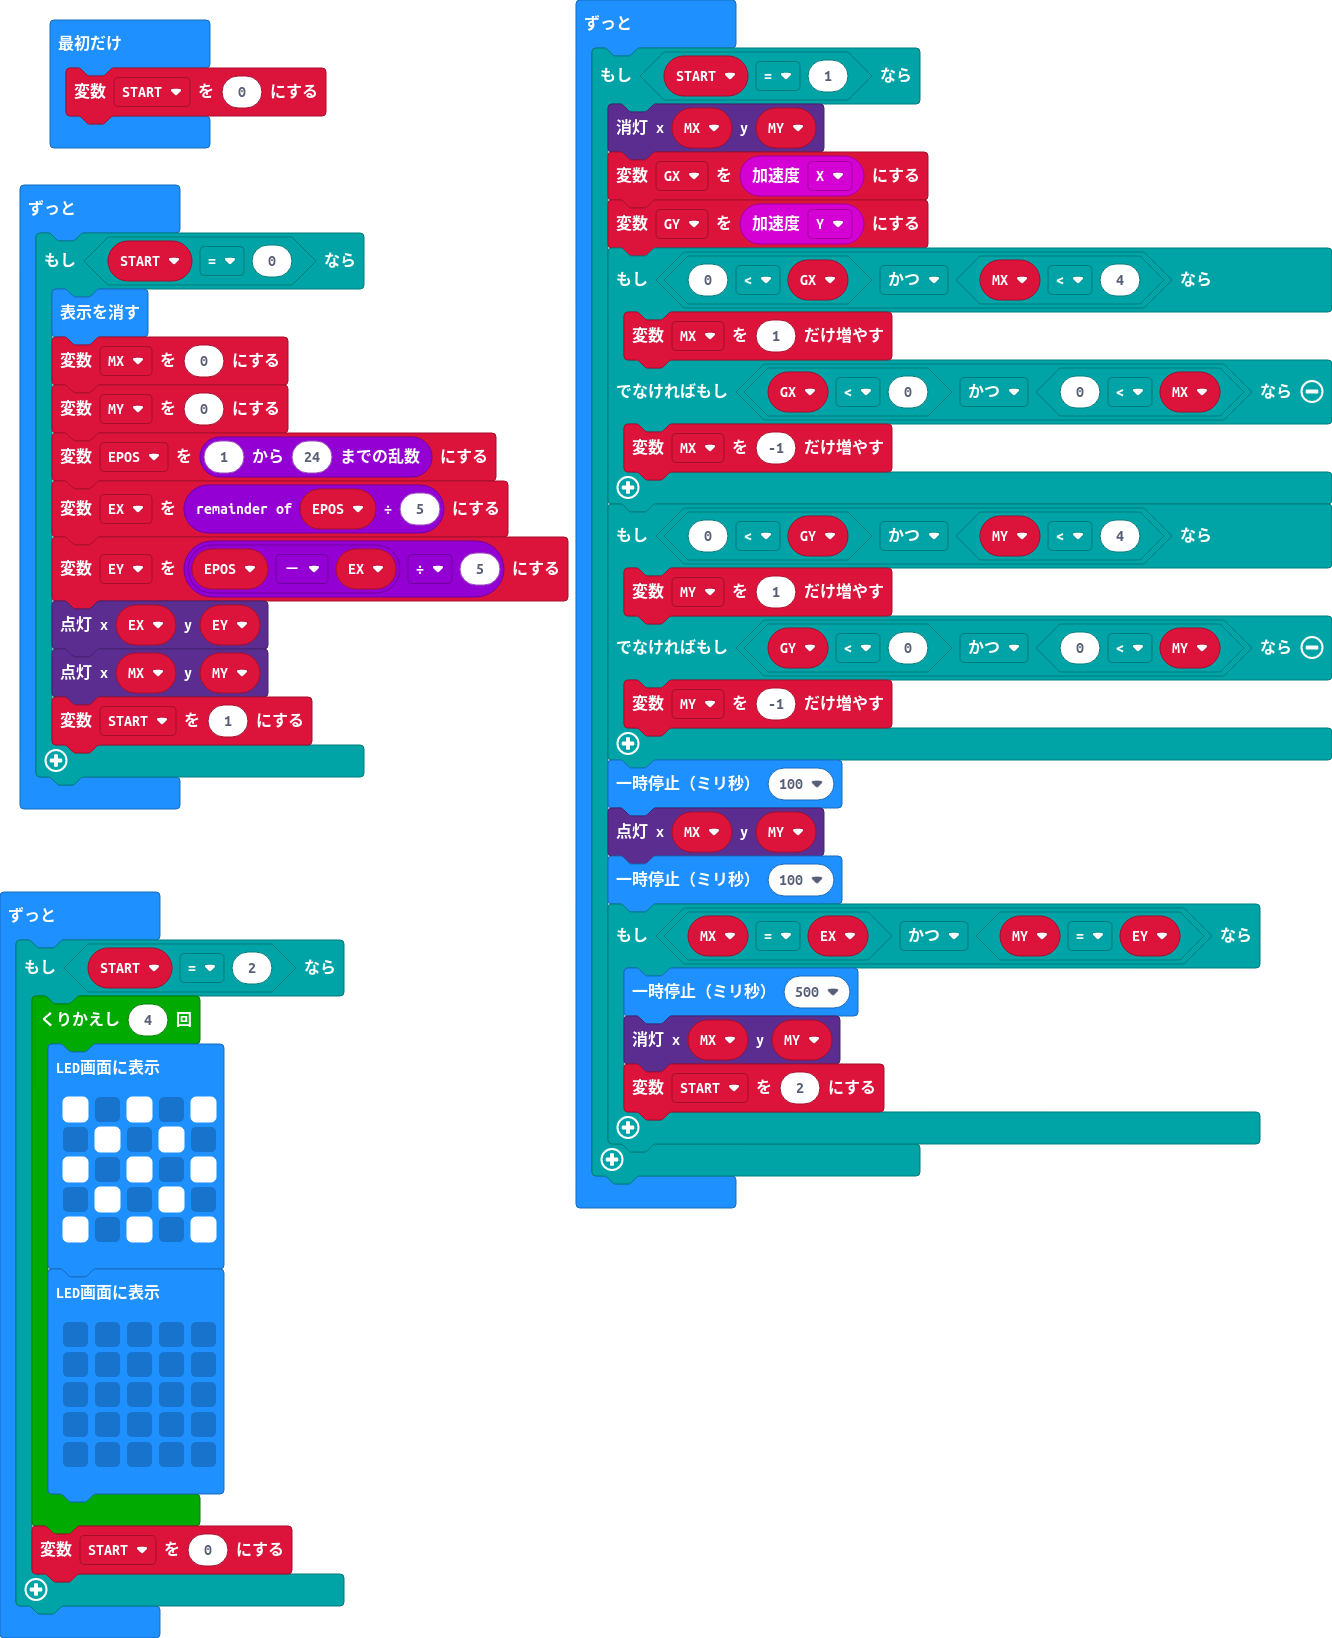
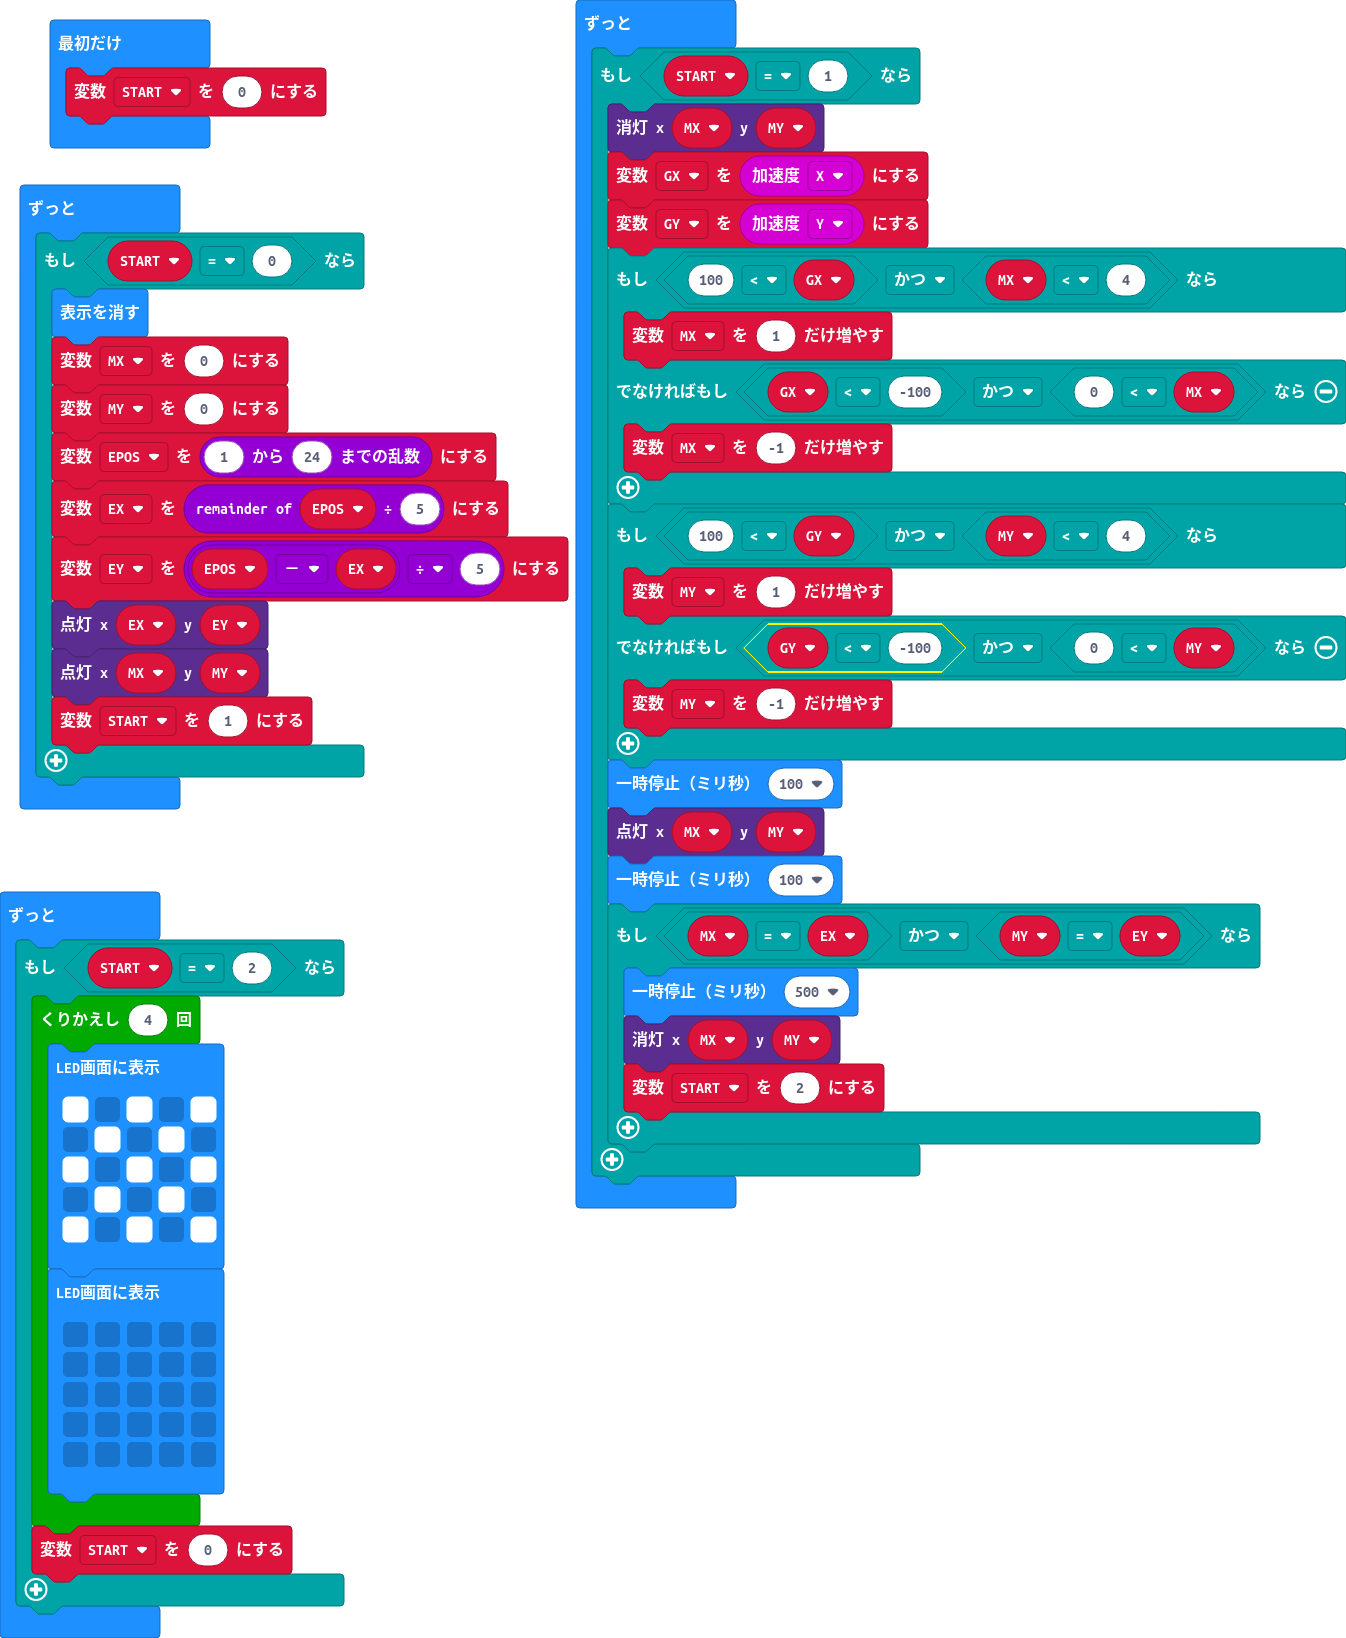
-100から100の間は停止するようにしてみた

diff --git a/main.ts b/main.ts
@@ -11,14 +11,14 @@ basic.forever(function () {
         led.unplot(MX, MY)
         GX = input.acceleration(Dimension.X)
         GY = input.acceleration(Dimension.Y)
-        if (0 < GX && MX < 4) {
+        if (100 < GX && MX < 4) {
             MX += 1
-        } else if (GX < 0 && 0 < MX) {
+        } else if (GX < -100 && 0 < MX) {
             MX += -1
         }
-        if (0 < GY && MY < 4) {
+        if (100 < GY && MY < 4) {
             MY += 1
-        } else if (GY < 0 && 0 < MY) {
+        } else if (GY < -100 && 0 < MY) {
             MY += -1
         }
         basic.pause(100)
